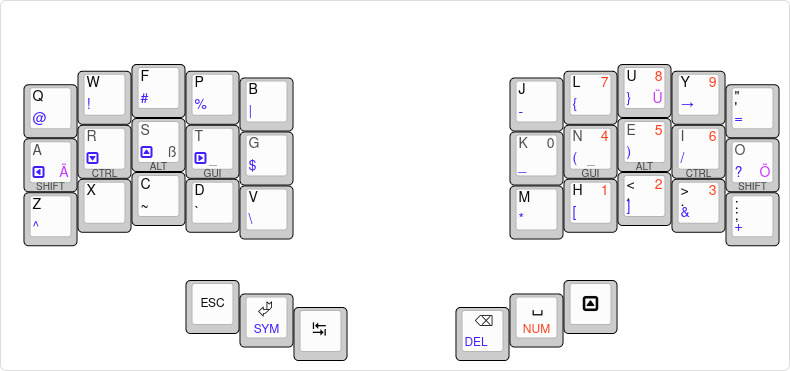
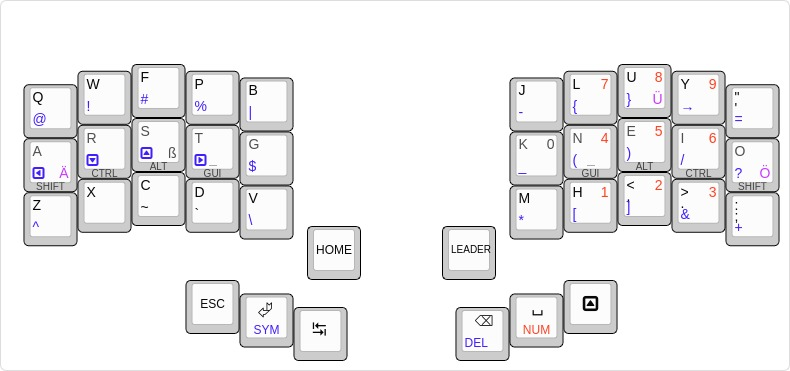
Addition of leader key

diff --git a/keymap.c b/keymap.c
@@ -15,10 +15,10 @@
  */
 #include QMK_KEYBOARD_H
 
-#define _MODDH  0
+#define _MODDH   0
 #define _SYMBOL  1
 #define _NUMBER  2
-#define _ADJUST 3
+#define _ADJUST  3
 
 /* Special defines for the home row keys */
 /* Left Hand */
@@ -41,7 +41,6 @@
 #define DE_SS XP(ss, ss)
 #define DE_UE XP(ue, Ue)
 #define DE_OE XP(oe, Oe)
-
 
 enum unicode_names {
     ae,
@@ -71,36 +70,13 @@ enum custom_keycodes {
     ADJUST,
 };
 
-/* Tap dance declarations */
-enum {
-    TD_BSPACE,
-    TD_ESC,
-};
-
-// Tap Dance functions
-void td_esc(qk_tap_dance_state_t *state, void *user_data) {
-    if (state->count == 1) {
-        SEND_STRING(SS_TAP(X_ESC));
-    }
-    else if (state->count == 2) {
-        SEND_STRING(SS_TAP(X_ESC)":");
-        reset_tap_dance(state);
-    }
-}
-
-// Tap Dance definitions
-qk_tap_dance_action_t tap_dance_actions[] = {
-    // Tap once for backspace, twice for ctrl + backspace
-    [TD_BSPACE] = ACTION_TAP_DANCE_DOUBLE(KC_BSPACE, LCTL(KC_BSPACE)),
-    [TD_ESC] = ACTION_TAP_DANCE_FN(td_esc),
-};
-
+LEADER_EXTERNS();
 
 const uint16_t PROGMEM keymaps[][MATRIX_ROWS][MATRIX_COLS] = {
     [_MODDH] = LAYOUT_split_3x7_4(
         KC_NO,   KC_Q,    KC_W,    KC_F,     KC_P,   KC_B,   KC_NO,         KC_NO,     KC_J,  KC_L,     KC_U,    KC_Y,    KC_QUOT,  KC_NO,
         KC_NO,   MT_A,    MT_R,    MT_S,     MT_T,   KC_G,   KC_NO,         KC_NO,     KC_K,  MT_N,     MT_E,    MT_I,       MT_O,  KC_NO,
-        KC_NO,   KC_Z,    KC_X,    KC_C,     KC_D,   KC_V,   KC_NO,         KC_NO,     KC_M,  KC_H,  KC_COMM,  KC_DOT,  KC_SCOLON,  KC_NO,
+        KC_NO,   KC_Z,    KC_X,    KC_C,     KC_D,   KC_V, KC_HOME,         KC_LEAD,   KC_M,  KC_H,  KC_COMM,  KC_DOT,  KC_SCOLON,  KC_NO,
                                    KC_NO,  KC_ESC, LT_ENT,  KC_TAB,         KC_BSPC, LT_SPC, KC_UP,    KC_NO
     ),
     [_SYMBOL] = LAYOUT_split_3x7_4(
@@ -143,3 +119,49 @@ bool process_record_user(uint16_t keycode, keyrecord_t *record) {
     return true; // continue normal processing (we did not replace or alter any functionality)
 }
 
+
+void matrix_scan_user(void) {
+  LEADER_DICTIONARY() {
+    leading = false;
+    leader_end();
+
+    SEQ_ONE_KEY(KC_Q) {
+      register_code(KC_LGUI);
+      register_code(KC_LSFT);
+      register_code(KC_Q);
+      unregister_code(KC_Q);
+      unregister_code(KC_LSFT);
+      unregister_code(KC_LGUI);
+    }
+    SEQ_TWO_KEYS(KC_I, KC_A) {
+      register_code(KC_LGUI);
+      register_code(KC_1);
+      unregister_code(KC_1);
+      unregister_code(KC_LGUI);
+    }
+    SEQ_TWO_KEYS(KC_I, KC_R) {
+      register_code(KC_LGUI);
+      register_code(KC_2);
+      unregister_code(KC_2);
+      unregister_code(KC_LGUI);
+    }
+    SEQ_TWO_KEYS(KC_I, KC_S) {
+      register_code(KC_LGUI);
+      register_code(KC_3);
+      unregister_code(KC_3);
+      unregister_code(KC_LGUI);
+    }
+    SEQ_TWO_KEYS(KC_I, KC_T) {
+      register_code(KC_LGUI);
+      register_code(KC_4);
+      unregister_code(KC_4);
+      unregister_code(KC_LGUI);
+    }
+    SEQ_TWO_KEYS(KC_I, KC_G) {
+      register_code(KC_LGUI);
+      register_code(KC_5);
+      unregister_code(KC_5);
+      unregister_code(KC_LGUI);
+    }
+  }
+}

diff --git a/config.h b/config.h
@@ -22,17 +22,17 @@
 
 // #define MASTER_LEFT
 #define MASTER_RIGHT
-// #define EE_HANDS
 
 #define USE_SERIAL_PD2
 
 #define TAPPING_FORCE_HOLD
 #define TAPPING_TERM 175
 #define IGNORE_MOD_TAP_INTERRUPT
-/* #define RETRO_TAPPPING */
-// #define PERMISSIVE_HOLD
 
 #define UNICODE_SELECTED_MODES UC_WINC
 
 #define ONESHOT_TAP_TOGGLE 3  /* Tapping this number of times holds the key until tapped once again. */
 #define ONESHOT_TIMEOUT 5000  /* Time (in ms) before the one shot key is released */
+
+// Timout duration for the leader key
+#define LEADER_TIMEOUT 600
